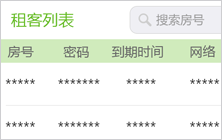
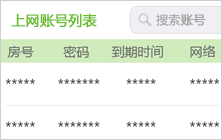
modify

Changed region(s): [[0.027, 0.0857, 0.4324, 0.2], [0.8108, 0.0857, 0.9189, 0.2]]

diff --git a/mybidong.html b/mybidong.html
@@ -19,12 +19,13 @@
 <body>
 	<header class="contentHeader">
     	<nav>
-        	<a href="/" class="logo">壁咚WiFi</a>
-            <ul>
-            	<li><a href="/">首页</a></li>
-                <li><a href="javascript:void(0);" class="actived">我的壁咚</a></li>
-            </ul>
+        	<a href="/" class="logo">壁咚WiFi</a><span class="headerName">上网账户管理系统</span>
+            <!--<ul>-->
+            	<!--<li><a href="/">首页</a></li>-->
+                <!--<li><a href="javascript:void(0);" class="actived">我的壁咚</a></li>-->
+            <!--</ul>-->
         </nav>
+        <p>单位名称/地址：${address}</p>
     </header>
 
     <aside>
@@ -35,7 +36,7 @@
             <li class="firstLi"><label>可上网时间</label><span>${days}天 + ${hours}</span></li>
         </ul>
         % if mask>>3 & 1:
-        <a href="/holder/${user}?token=${token}" class="fdgl">房东管理</a>
+        <a href="/holder/${user}?token=${token}" class="fdgl">管理操作</a>
         % endif
     </aside>
 
@@ -49,8 +50,8 @@
                 <input type="button" value="充值" class="srg" />
             </li>
             <li>
-                <p class="s3" style="text-indent: 48px;">租户可向房东索要充值密码</p>
-                <p style="text-indent: 48px;">（仅限壁咚WiFi已覆盖楼体）</p>
+                <p class="s3" style="text-indent: 48px;">上网账号可咨询管理员</p>
+                <p style="text-indent: 48px; visibility: hidden;">（仅限壁咚WiFi已覆盖楼体）</p>
                 <div id="formCag">
                     <input type="text" placeholder="请输入房间号" class="ipu_text" value="" id="reRoom" />
                     <input type="password" placeholder="请输入充值密码" class="ipu_text showPH" value="" id="rePwd" />

diff --git a/login.html b/login.html
@@ -19,11 +19,11 @@
 <body>
 	<header class="contentHeader">
     	<nav>
-        	<a href="/" class="logo">壁咚WiFi</a>
-            <ul>
-            	<li><a href="/" class="actived">首页</a></li>
-                <li><a href="" id="mybd">我的壁咚</a></li>
-            </ul>
+        	<a href="/" class="logo">壁咚WiFi</a><span class="headerName">上网账户管理系统</span>
+            <!--<ul>-->
+            	<!--<li><a href="/" class="actived">首页</a></li>-->
+                <!--<li><a href="" id="mybd">我的壁咚</a></li>-->
+            <!--</ul>-->
         </nav>
     </header>
     
@@ -46,7 +46,7 @@
             <div class="steps">
             	<ul>
                 	<li style="width:222px;">
-                    	<h4><span>租户上网：</span>可向房东索要密码</h4>
+                    	<h4><span>账户上网：</span>可向管理员索取</h4>
                         <img src="/images/zhsw.png" width="222" height="140" />
                     </li>
                     <li style="width:390px;">

diff --git a/login_web.html b/login_web.html
@@ -17,11 +17,11 @@
 <body>
 	<header class="contentHeader">
     	<nav>
-        	<a href="/" class="logo">壁咚WiFi</a>
-            <ul>
-            	<li><a href="/" class="actived">首页</a></li>
-                <li><a href="" id="mybd">我的壁咚</a></li>
-            </ul>
+        	<a href="/" class="logo">壁咚WiFi</a><span class="headerName">上网账户管理系统</span>
+            <!--<ul>-->
+            	<!--<li><a href="/" class="actived">首页</a></li>-->
+                <!--<li><a href="" id="mybd">我的壁咚</a></li>-->
+            <!--</ul>-->
         </nav>
     </header>
     
@@ -43,7 +43,7 @@
             <div class="steps">
             	<ul>
                 	<li style="width:222px;">
-                    	<h4><span>租户上网：</span>可向房东索要密码</h4>
+                    	<h4><span>账户上网：</span>可向管理员索取</h4>
                         <img src="/images/zhsw.png" width="222" height="140" />
                     </li>
                     <li style="width:390px;">

diff --git a/addclient.html b/addclient.html
@@ -20,12 +20,13 @@
 <body>
     <header class="contentHeader">
         <nav>
-            <a href="/" class="logo">壁咚WiFi</a>
-            <ul>
-                <li><a href="/">首页</a></li>
-                <li><a href="javascript:void(0);" class="actived">我的壁咚</a></li>
-            </ul>
+            <a href="/" class="logo">壁咚WiFi</a><span class="headerName">上网账户管理系统</span>
+            <!--<ul>-->
+                <!--<li><a href="/">首页</a></li>-->
+                <!--<li><a href="javascript:void(0);" class="actived">我的壁咚</a></li>-->
+            <!--</ul>-->
         </nav>
+        <p>单位名称/地址：${address}</p>
     </header>
 
     <aside>

diff --git a/css/main.css b/css/main.css
@@ -25,7 +25,9 @@ header {
 	background:#01c2c4 url(../images/banner02.jpg) top center no-repeat;
 	height:430px;
     min-width: 1002px;
+    color: #fff;
 }
+.headerName{ line-height: 110px; font-size: 32px; text-shadow: 0 1px 1px rgba(0,0,0,0.3);}
 nav { overflow:hidden;}
 nav div{ position: relative; height: 320px; margin-top: 110px;}
 nav a.logo {
@@ -76,6 +78,11 @@ nav li a:hover, nav li a.actived {
 	border:3px solid #ff6138; 
 	
 	*border:3px solid #ff6138 !important;
+}
+header p{
+    width: 1002px;
+    margin: 20px auto 0;
+    text-shadow: 0 1px 1px rgba(0, 0, 0, 0.2);
 }
 
 /*官网中心*/
